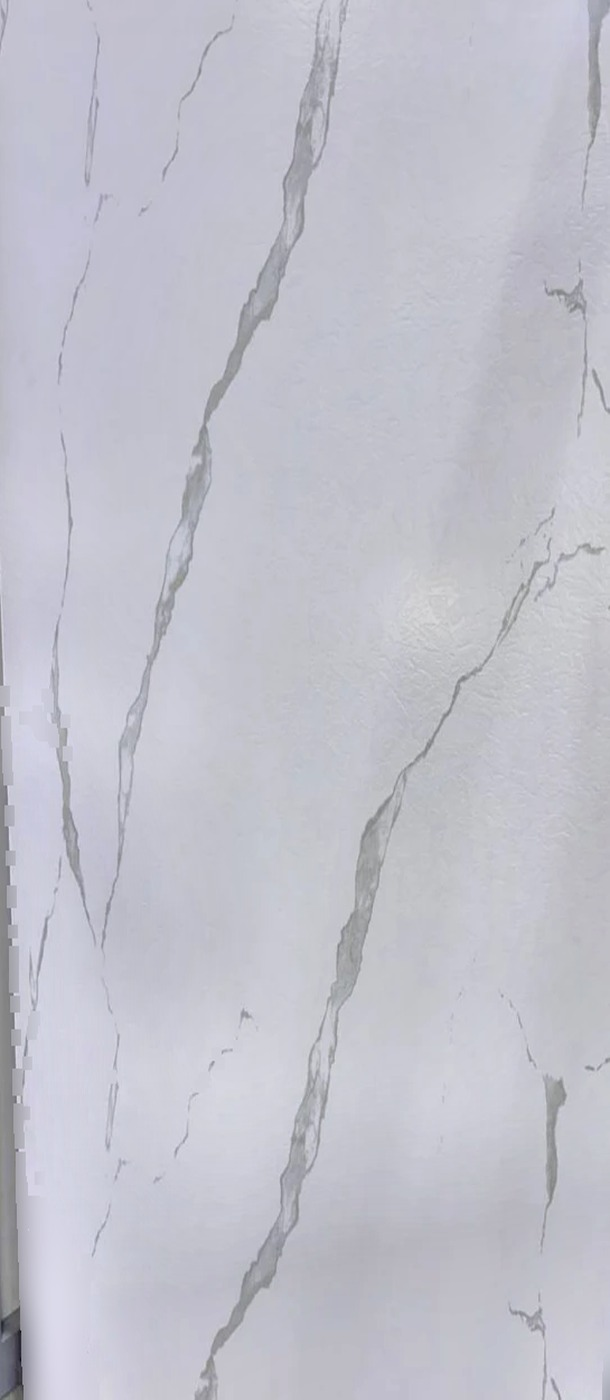
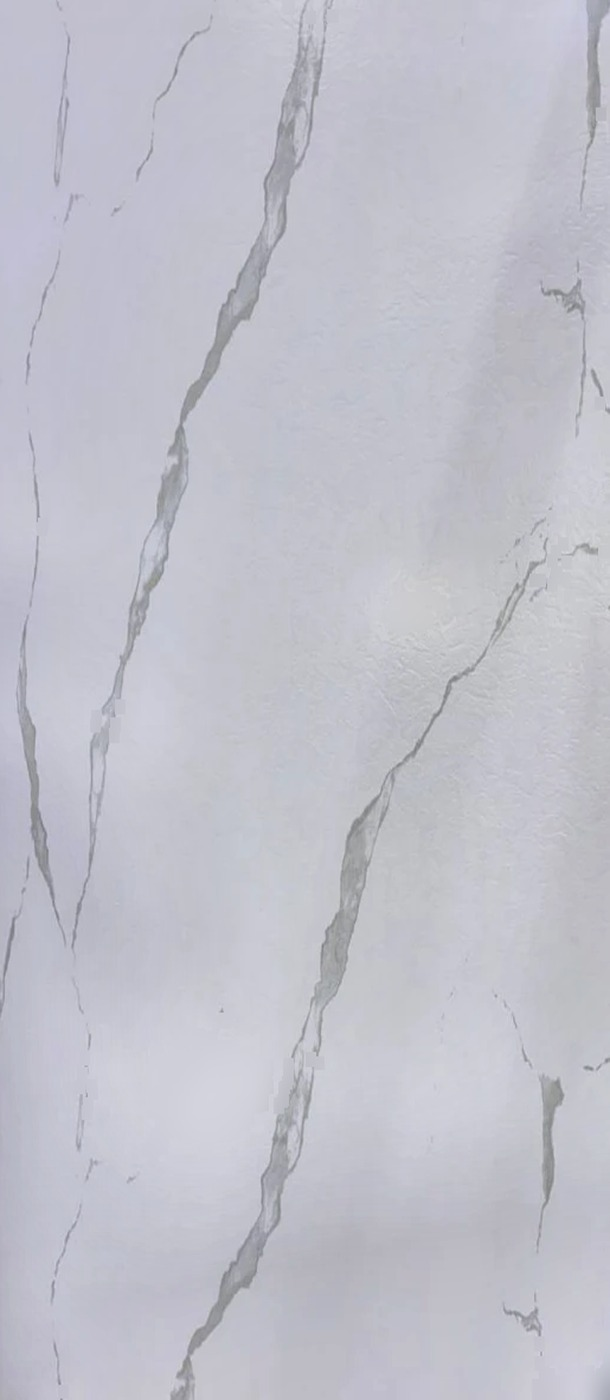
Panel teksturalari: 1-panel pastki qora burchagi va 3-panel chap kulrang cheti kesildi
Claude-Session: https://claude.ai/code/session_0121VSEFiRNp3h6KMycRzKQh

diff --git a/xadra-filiali/manba/teksturalar-panel.py b/xadra-filiali/manba/teksturalar-panel.py
@@ -4,7 +4,7 @@
 import sys, numpy as np
 from PIL import Image, ImageFilter
 src, out = sys.argv[1], sys.argv[2]
-CROP = {'1': (70, 120, 430, 950), '2': (55, 110, 440, 945), '3': (55, 25, 600, 950)}
+CROP = {'1': (70, 120, 430, 912), '2': (55, 110, 440, 945), '3': (85, 25, 600, 950)}  # chetdagi qora burchak / kulrang yo'l kesib tashlangan
 for k, box in CROP.items():
     im = Image.open(f'{src}/{k}.webp').convert('RGB').crop(box)
     a = np.asarray(im).astype(np.float32)
